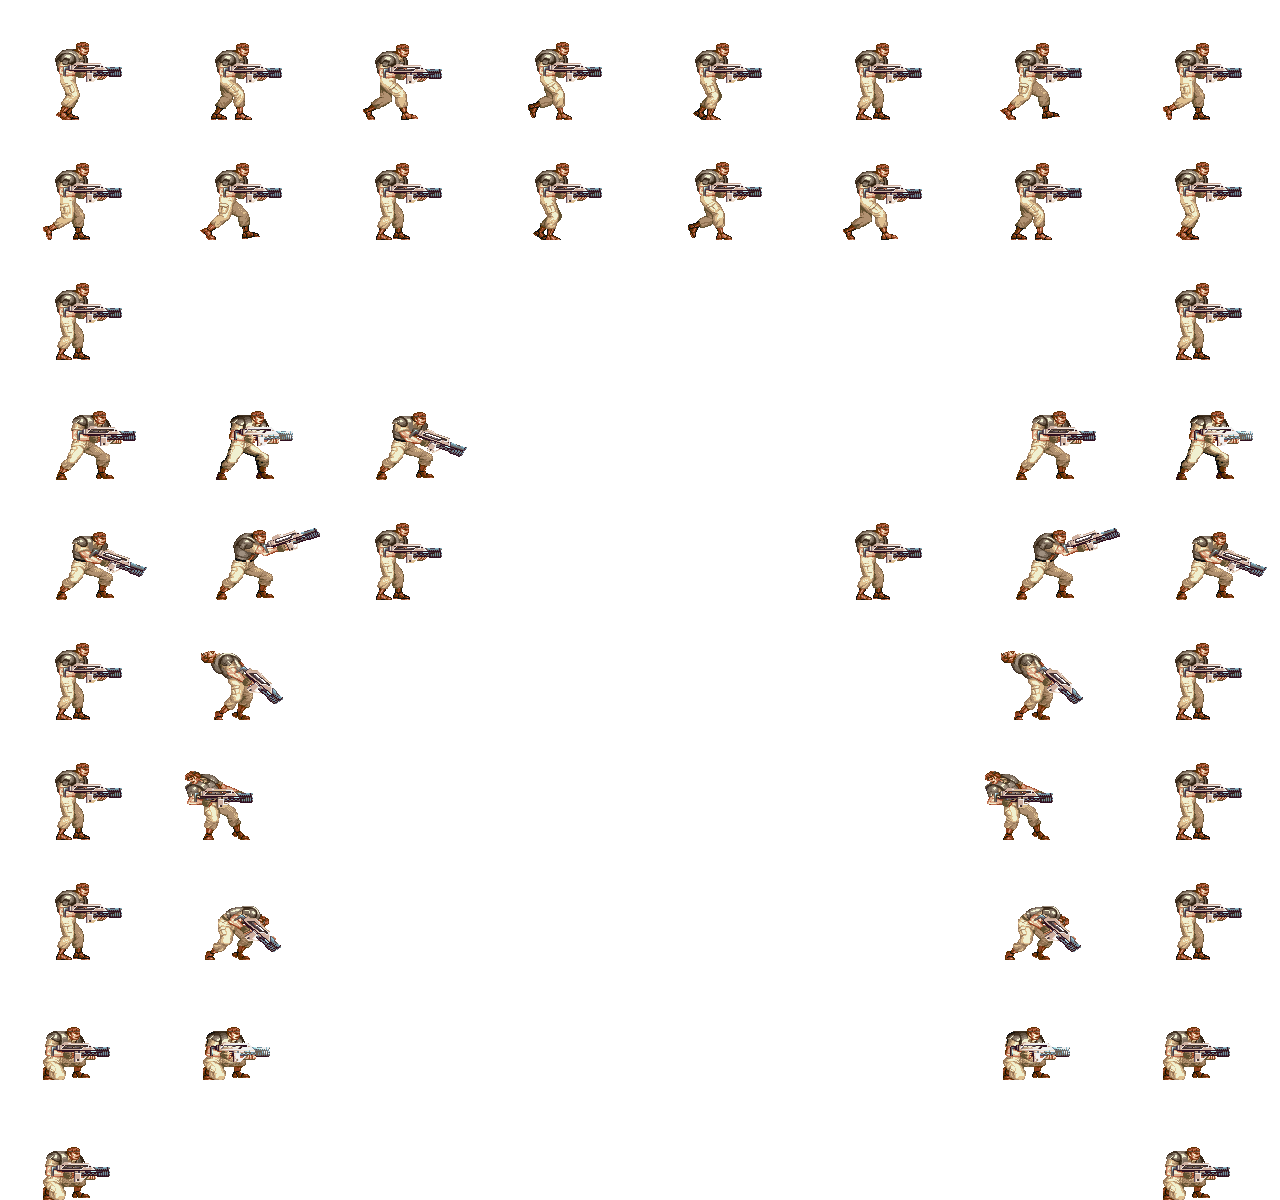
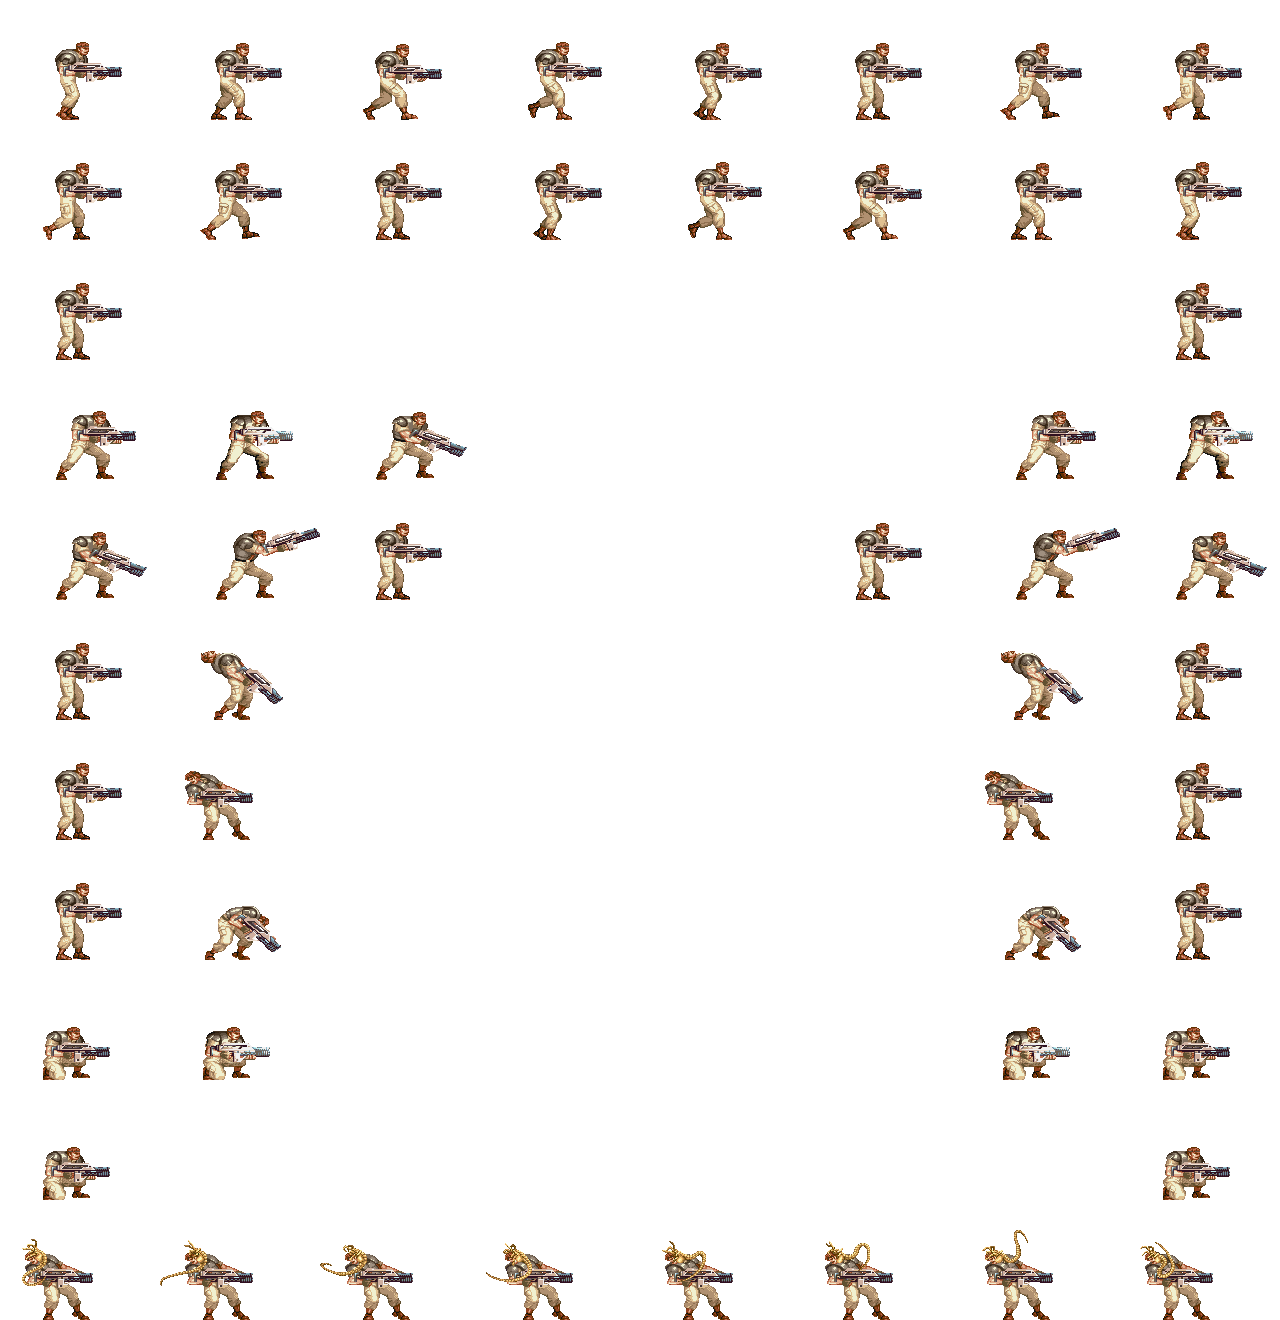
latch

diff --git a/demo/game/faceHugger.js b/demo/game/faceHugger.js
@@ -44,7 +44,6 @@ export default class FaceHugger extends Npc {
     this.loopID = null;
     this.isJumping = false;
     this.isPunching = false;
-    this.isBiting = false;
     this.isCrouchIdle = false;
     this.isLookBack = false;
     this.isSnarling = false;
@@ -55,6 +54,7 @@ export default class FaceHugger extends Npc {
     this.isDown = false;
     this.isAmbush = false;
     this.isLanding = false;
+    this.hasLatched = false;
     this.isLeaving = false;
     this.lastX = 0;
     this.lastDirection = -1;
@@ -69,6 +69,7 @@ export default class FaceHugger extends Npc {
       direction: -1,
       hasStopped: Math.random() < .5 ? 0 : 1,
       hasHit: Math.random() < .5 ? 0 : 1,
+      latch:false
     };
   }
 
@@ -88,8 +89,10 @@ export default class FaceHugger extends Npc {
     const {scale} = this.context;
     const {x, y} = npcPosition;
     const targetX = x + stageX;
+    const visibility = this.state.latch?'hidden':'visible';
 
     return {
+      visibility,
       position: 'absolute',
       transform: `translate(${targetX * scale}px, ${y * scale}px)`,
       transformOrigin: 'left top',
@@ -99,7 +102,7 @@ export default class FaceHugger extends Npc {
   loop = () => {
     const {store, npcIndex} = this.props;
 
-    if (!this.isJumping && !this.isPunching && !this.isBiting && !this.isWhiping && !this.isLeaving && !this.isHit && !this.isDrop && !this.isDown && !this.isLanding && !this.isCrouchIdle && !this.isLookBack && !this.isSnarling && !this.isInPieces) {
+    if (!this.isJumping && !this.isPunching && !this.isBiting && !this.isWhiping && !this.isLeaving && !this.isHit && !this.isDrop && !this.isDown && !this.isLanding && !this.isCrouchIdle && !this.isLookBack && !this.isSnarling && !this.isInPieces && !this.hasLatched) {
       this.npcAction(this.body);
       if (this.isAmbush && this.state.spritePlaying === false) {
         this.isAmbush = false;
@@ -108,16 +111,14 @@ export default class FaceHugger extends Npc {
       if (this.isPunching && this.state.spritePlaying === false) {
         this.isPunching = false;
         this.props.onCharacterHitDone();
+        if(!store.characterIsLatched && !this.hasLatched) {
+          return this.latch();
+        }
       }
 
-      if (this.isBiting && this.state.spritePlaying === false) {
-        this.isBiting = false;
-        this.props.onCharacterHitDone();
-      }
-
-      if (this.isWhiping && this.state.spritePlaying === false) {
-        this.isWhiping = false;
-        this.props.onCharacterHitDone();
+      if(this.hasLatched && !store.characterIsLatched) {
+        this.hasLatched = false;
+        return this.down();
       }
 
       if (this.isLookBack && this.state.spritePlaying === false) {
@@ -202,9 +203,11 @@ export default class FaceHugger extends Npc {
     else if (this.state.npcState !== 2) {
       this.stop();
     }
-    else if (this.state.npcState === 2 && Math.random() && this.state.direction !== store.characterDirection) {
-      this.props.onCharacterHit();
-      this.punch();
+    else if (this.state.npcState === 2 && Math.random() && this.state.direction !== store.characterDirection && !store.characterIsLatched) {
+      if(!this.state.latch) {
+        this.props.onCharacterHit();
+        this.punch();
+      }
     }
   };
 
@@ -307,6 +310,7 @@ export default class FaceHugger extends Npc {
     this.setState(Object.assign({}, this.state, {
       npcState,
       repeat: false,
+      latch:false,
       ticksPerFrame: 100 // respawn time
     }));
   };
@@ -336,9 +340,9 @@ export default class FaceHugger extends Npc {
 
   isFar = () => {
     const {store, npcIndex} = this.props;
-    const directionOffset = this.state.direction < 0 ? -40 : 0;
+    const directionOffset = this.state.direction < 0 ? 0 : -20;
     const distance = Math.abs(store.faceHuggerPositions[npcIndex].x - store.characterPosition.x);
-    return distance > 110 + directionOffset;
+    return distance > 40 + directionOffset;
   };
 
   move = (body, distance, npcState) => {
@@ -367,6 +371,18 @@ export default class FaceHugger extends Npc {
     }));
   };
 
+  latch = () => {
+    const {store, npcIndex} = this.props;
+    store.setFaceHuggerPosition({x: store.characterPosition.x, y: store.faceHuggerPositions[npcIndex].y}, npcIndex);
+    store.setCharacterLatched(true);
+    this.hasLatched = true;
+    this.setState(Object.assign({}, this.state, {
+      latch:true,
+      ticksPerFrame: 5,
+      repeat: false
+    }));
+  };
+
   ambush = () => {
     this.isAmbush = true;
     this.setState(Object.assign({}, this.state, {
@@ -386,9 +402,6 @@ export default class FaceHugger extends Npc {
       repeat: false
     }));
   };
-
-
-
 
   stop = () => {
     this.setState(Object.assign({}, this.state, {

diff --git a/demo/game/corporal.js b/demo/game/corporal.js
@@ -114,6 +114,31 @@ export default class Corporal extends Component {
     }
   };
 
+  latch = () => {
+    if (!this.state.latchTimeStamp) {
+      this.setState({
+        latchTimeStamp: this.state.contextLoop,
+        ticksPerFrame: 10
+      });
+    }
+    this.setState({
+      characterState: 10,
+      ticksPerFrame: 5,
+      repeat: true
+    });
+    this.props.store.setCharacterIsAttacking(false);
+    if (this.state.latchTimeStamp) {
+      if (this.state.contextLoop > this.state.latchTimeStamp + 100) {
+        this.props.store.setCharacterLatched(false);
+        // kill faceHugger
+        this.setState({
+          latchTimeStamp: null
+        });
+        return this.stop();
+      }
+    }
+  };
+
   stop = () => {
     let direction = this.lastDirection > 0 ? -1 : 1;
     this.setState({
@@ -246,6 +271,10 @@ export default class Corporal extends Component {
   loop = () => {
     const {store, isHit} = this.props;
 
+    if (store.characterIsLatched) {
+      return this.latch();
+    }
+
     if (isHit && !this.isHit) {
       return this.hit();
     }
@@ -352,6 +381,7 @@ export default class Corporal extends Component {
             1, // 7 hit behind
             1, // 8 crouch shoot
             0, // 9 crouch
+            7, // 10 latch
             ]}
           offset={[0,0]}
           tileWidth={160}

diff --git a/demo/game/stores/game-store.js b/demo/game/stores/game-store.js
@@ -7,18 +7,18 @@ class GameStore {
   @observable characterDirection = 1;
   @observable characterIsAttacking = false;
   @observable characterIsCrouching = false;
+  @observable characterIsLatched = false;
   @observable stageX = 0;
   @observable heroLoopCount = 0;
 
   @observable npcPositions = [
     {x: 500, y: alienFloor},
-     {x: 3000, y: alienFloor},
+    {x: 3000, y: alienFloor},
     {x: 5000, y: alienFloor}
   ];
   @observable faceHuggerPositions = [
-    {x: -1500, y: faceHuggerFloor},
-    {x: 1500, y: faceHuggerFloor},
-    {x: 1500, y: faceHuggerFloor},
+    {x: 500, y: faceHuggerFloor},
+    {x: -500, y: faceHuggerFloor}
   ];
 
   constructor() {
@@ -47,6 +47,10 @@ class GameStore {
 
   setCharacterIsCrouching(isCrouching) {
     this.characterIsCrouching = isCrouching;
+  }
+
+  setCharacterLatched(isLatched) {
+    this.characterIsLatched = isLatched;
   }
 
   setNpcPosition(position, index) {

diff --git a/demo/game/index.js b/demo/game/index.js
@@ -77,9 +77,9 @@ export default class Game extends Component {
   }
 
   componentDidMount() {
-    this.player = new AudioPlayer('/assets/Rescue.mp3', () => {
+    /*this.player = new AudioPlayer('/assets/Rescue.mp3', () => {
       this.stopMusic = this.player.play({loop: true, offset: 1, volume: 0.35});
-    });
+    });*/
 
 
     this.setState({
